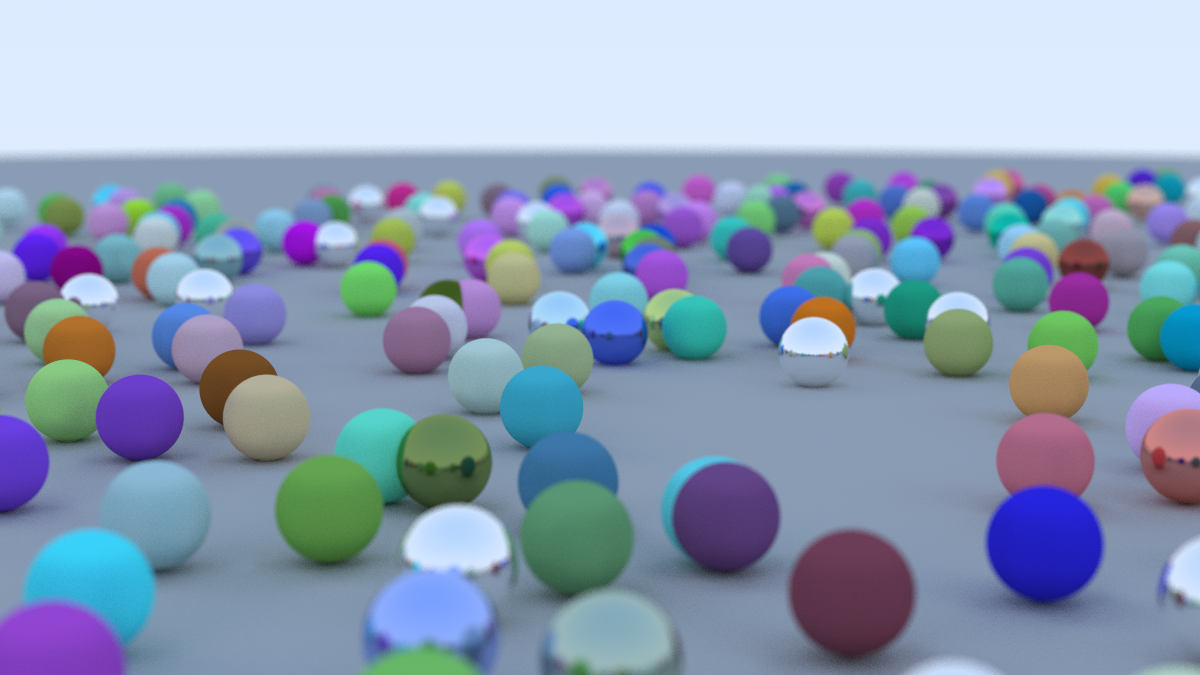
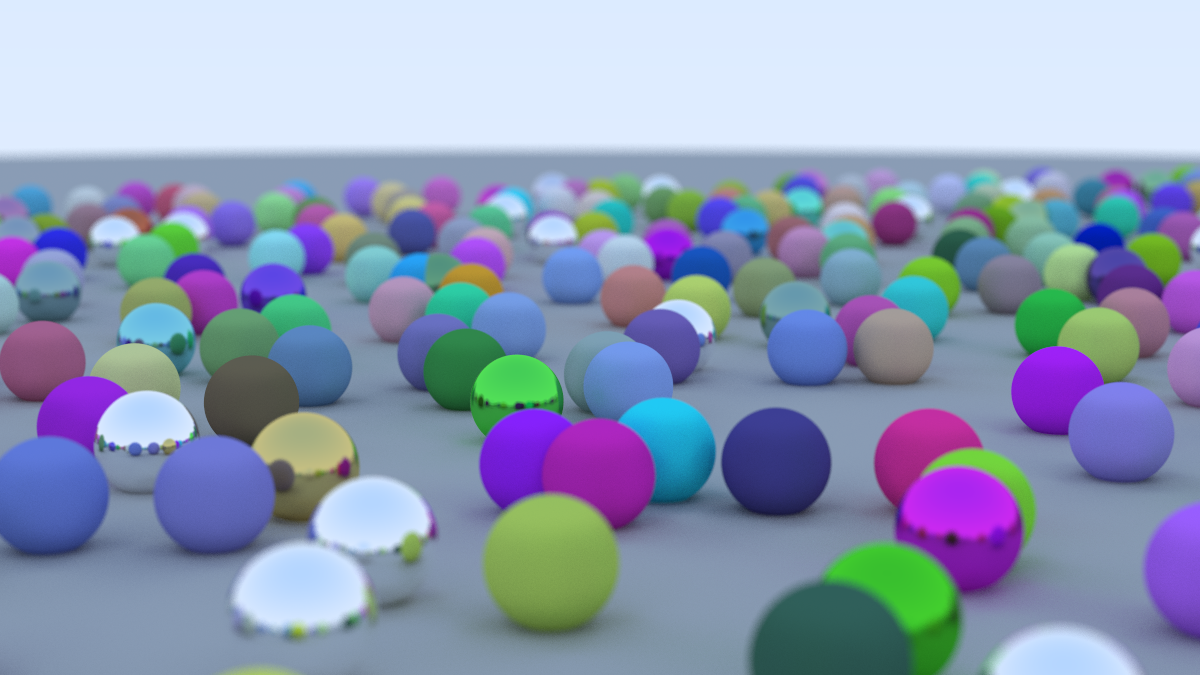
update img and samples_per_pixel

diff --git a/src/camera.rs b/src/camera.rs
@@ -84,7 +84,7 @@ impl Camera {
             pixel_delta_v,
             viewport_upper_left,
             pixel_00_loc: pixel_00_loc,
-            samples_per_pixel: 300,
+            samples_per_pixel: 500,
             max_depth: 50,
             vfov,
             look_from,
